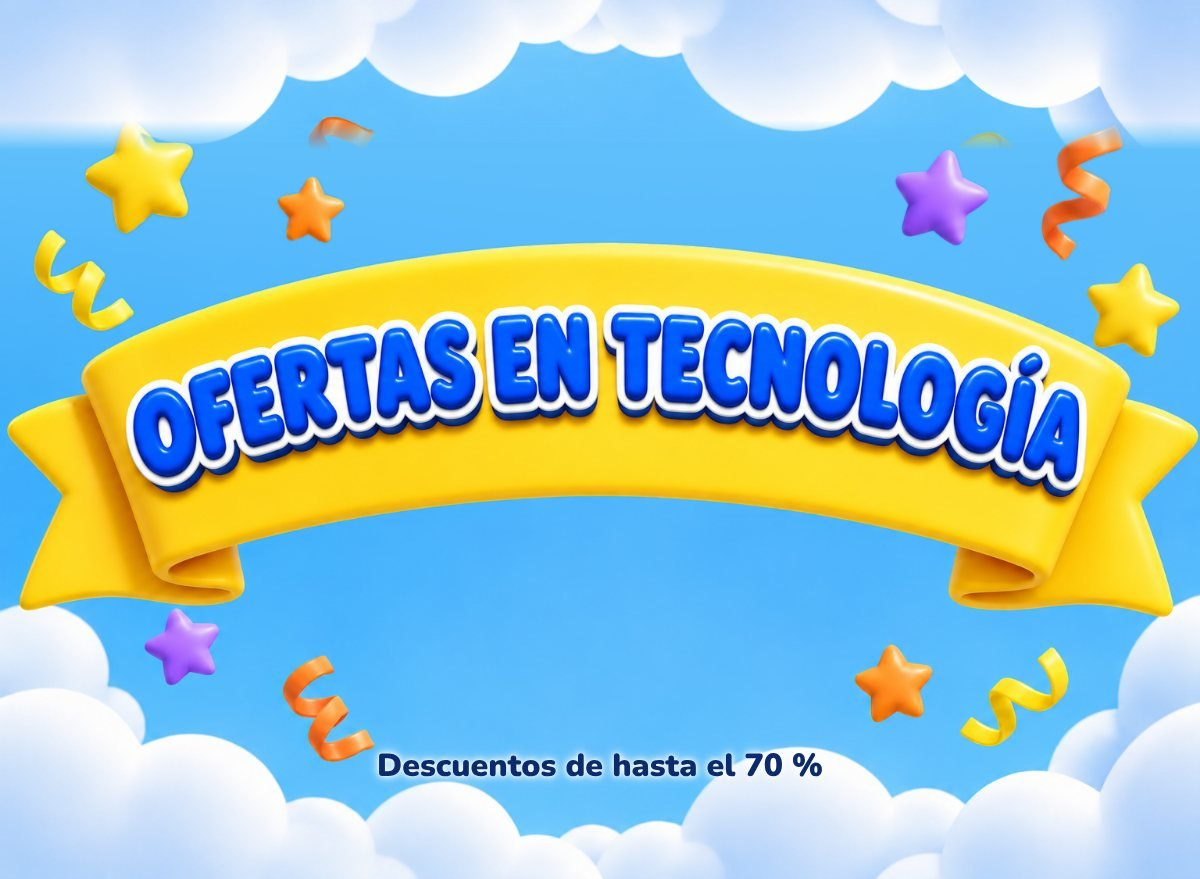
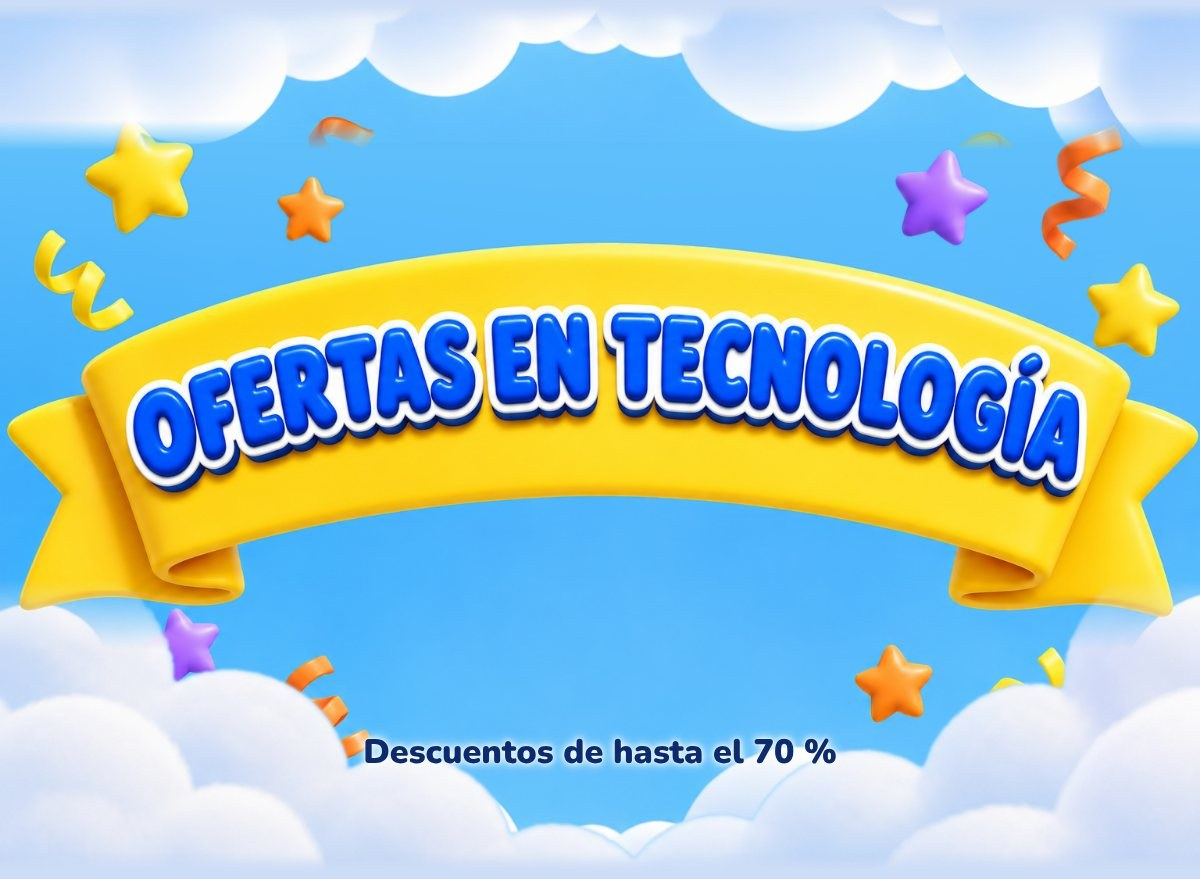
Nubes unificadas con sprites limpios, pastillas de promos y bloque Envío gratis
Claude-Session: https://claude.ai/code/session_014n8fruw4BUtYLKWozkJouR

diff --git a/index.html b/index.html
@@ -19,52 +19,53 @@ body{margin:0;padding:0;background:#EEF3F9}
 <tr><td align="center" style="padding:10px 16px;font-family:Arial, Helvetica, sans-serif;font-size:12px;line-height:18px;color:#4A5878;background:#EEF3F9">
 <strong style="color:#0B2A6F">Publicidad</strong> · Ejercicio académico. Mercaviva es una marca ficticia; no es una comunicación oficial de Carrefour.<br>
 ¿No ves bien este email? <a href="{$url}" target="_blank" style="color:#0057B8;text-decoration:underline">Ábrelo en el navegador</a></td></tr>
-<tr><td style="padding:0"><a href="https://www.carrefour.es/lavadora-lg-f2x50s9tlb-9-kg-carga-frontal-1200-rpm-wifi-clase-a-blanco/VC4A-32514266/p?utm_source=newsletter&utm_medium=email&utm_campaign=black_friday_2026&utm_content=lavadora_lg" target="_blank"><img src="https://caarlosfdz.github.io/newsletter-mercaviva/bf-cover.jpg?v=10190903" width="600" alt="Mercaviva. Black Friday del 20 de octubre al 27 de noviembre: 50 % y 70 % de descuento en tecnología, electrodomésticos y alimentación" class="fluid" style="display:block;width:100%;max-width:600px;height:auto;border:0"></a></td></tr>
-<tr><td style="padding:0"><a href="https://www.carrefour.es/lavadora-lg-f2x50s9tlb-9-kg-carga-frontal-1200-rpm-wifi-clase-a-blanco/VC4A-32514266/p?utm_source=newsletter&utm_medium=email&utm_campaign=black_friday_2026&utm_content=lavadora_lg" target="_blank"><img src="https://caarlosfdz.github.io/newsletter-mercaviva/bf-p1.jpg?v=10190903" width="600" alt="Lavadora LG 9 kg: 164,70 €, antes 549 €, 70 % de descuento" class="fluid" style="display:block;width:100%;max-width:600px;height:auto;border:0"></a></td></tr>
-<tr><td style="padding:0"><img src="https://caarlosfdz.github.io/newsletter-mercaviva/bf-tit-tecnologia.jpg?v=10190903" width="600" alt="Ofertas en tecnología: descuentos de hasta el 70 %" class="fluid" style="display:block;width:100%;max-width:600px;height:auto;border:0"></td></tr>
-<tr><td style="padding:0"><img src="https://caarlosfdz.github.io/newsletter-mercaviva/bf-nubes-arriba.jpg?v=10190903" width="600" alt="" class="fluid" style="display:block;width:100%;max-width:600px;height:auto;border:0"></td></tr>
+<tr><td style="padding:0"><a href="https://www.carrefour.es/lavadora-lg-f2x50s9tlb-9-kg-carga-frontal-1200-rpm-wifi-clase-a-blanco/VC4A-32514266/p?utm_source=newsletter&utm_medium=email&utm_campaign=black_friday_2026&utm_content=lavadora_lg" target="_blank"><img src="https://caarlosfdz.github.io/newsletter-mercaviva/bf-cover.jpg?v=10190907" width="600" alt="Mercaviva. Black Friday del 20 de octubre al 27 de noviembre: 50 % y 70 % de descuento en tecnología, electrodomésticos y alimentación" class="fluid" style="display:block;width:100%;max-width:600px;height:auto;border:0"></a></td></tr>
+<tr><td style="padding:0"><a href="https://www.carrefour.es/lavadora-lg-f2x50s9tlb-9-kg-carga-frontal-1200-rpm-wifi-clase-a-blanco/VC4A-32514266/p?utm_source=newsletter&utm_medium=email&utm_campaign=black_friday_2026&utm_content=lavadora_lg" target="_blank"><img src="https://caarlosfdz.github.io/newsletter-mercaviva/bf-p1.jpg?v=10190907" width="600" alt="Lavadora LG 9 kg: 164,70 €, antes 549 €, 70 % de descuento" class="fluid" style="display:block;width:100%;max-width:600px;height:auto;border:0"></a></td></tr>
+<tr><td style="padding:0"><img src="https://caarlosfdz.github.io/newsletter-mercaviva/bf-tit-tecnologia.jpg?v=10190907" width="600" alt="Ofertas en tecnología: descuentos de hasta el 70 %" class="fluid" style="display:block;width:100%;max-width:600px;height:auto;border:0"></td></tr>
+<tr><td style="padding:0"><img src="https://caarlosfdz.github.io/newsletter-mercaviva/bf-nubes-arriba.jpg?v=10190907" width="600" alt="" class="fluid" style="display:block;width:100%;max-width:600px;height:auto;border:0"></td></tr>
 <tr><td bgcolor="#5CC4FC" style="padding:0;background:#5CC4FC"><table role="presentation" cellpadding="0" cellspacing="0" border="0" width="100%"><tr>
-<td class="col" width="300" valign="top" style="width:300px;vertical-align:top"><a href="https://www.carrefour.es/proyector-yaber-pro-u9-proyector-1080p-nativo-con-wifi-5g-y-bluetooth-15000lm-brillo-ultra-alto-460-ansi-corrector-keystone-4p-4d/0602561264473/p?utm_source=newsletter&utm_medium=email&utm_campaign=black_friday_2026&utm_content=proyector_yaber" target="_blank"><img src="https://caarlosfdz.github.io/newsletter-mercaviva/bf-p6.png?v=10190903" width="300" alt="Proyector Yaber Pro U9: 95,22 €, antes 218,99 €, −56,5 % y envío gratis" class="fluid" style="display:block;width:100%;max-width:300px;height:auto;border:0"></a>
+<td class="col" width="300" valign="top" style="width:300px;vertical-align:top"><a href="https://www.carrefour.es/proyector-yaber-pro-u9-proyector-1080p-nativo-con-wifi-5g-y-bluetooth-15000lm-brillo-ultra-alto-460-ansi-corrector-keystone-4p-4d/0602561264473/p?utm_source=newsletter&utm_medium=email&utm_campaign=black_friday_2026&utm_content=proyector_yaber" target="_blank"><img src="https://caarlosfdz.github.io/newsletter-mercaviva/bf-p6.png?v=10190907" width="300" alt="Proyector Yaber Pro U9: 95,22 €, antes 218,99 €, −56,5 % y envío gratis" class="fluid" style="display:block;width:100%;max-width:300px;height:auto;border:0"></a>
 <div style="padding:4px 14px 26px"><table role="presentation" cellpadding="0" cellspacing="0" border="0" width="100%"><tr><td align="center" bgcolor="#5CC4FC" style="background:#5CC4FC">
-<a href="https://www.carrefour.es/proyector-yaber-pro-u9-proyector-1080p-nativo-con-wifi-5g-y-bluetooth-15000lm-brillo-ultra-alto-460-ansi-corrector-keystone-4p-4d/0602561264473/p?utm_source=newsletter&utm_medium=email&utm_campaign=black_friday_2026&utm_content=proyector_yaber" target="_blank" style="display:block;text-decoration:none"><img src="https://caarlosfdz.github.io/newsletter-mercaviva/bf-btn-p6.png?v=10190903" width="270" alt="Llévatelo ya" class="fluid" style="display:block;width:100%;max-width:270px;height:auto;border:0;font-family:Arial, Helvetica, sans-serif;font-size:16px;font-weight:bold;line-height:52px;color:#0B2A6F;text-align:center"></a></td></tr></table></div></td>
-<td class="col" width="300" valign="top" style="width:300px;vertical-align:top"><a href="https://www.carrefour.es/lavavajillas-60-cm-candy-cf3e7e0w-5-programas-13-cubiertos-clase-e-blanco/VC4A-33175690/p?utm_source=newsletter&utm_medium=email&utm_campaign=black_friday_2026&utm_content=lavavajillas_candy" target="_blank"><img src="https://caarlosfdz.github.io/newsletter-mercaviva/bf-p2.png?v=10190903" width="300" alt="Lavavajillas Candy CF3E7E0W: 154,50 €, antes 309 €, −50 %" class="fluid" style="display:block;width:100%;max-width:300px;height:auto;border:0"></a>
+<a href="https://www.carrefour.es/proyector-yaber-pro-u9-proyector-1080p-nativo-con-wifi-5g-y-bluetooth-15000lm-brillo-ultra-alto-460-ansi-corrector-keystone-4p-4d/0602561264473/p?utm_source=newsletter&utm_medium=email&utm_campaign=black_friday_2026&utm_content=proyector_yaber" target="_blank" style="display:block;text-decoration:none"><img src="https://caarlosfdz.github.io/newsletter-mercaviva/bf-btn-p6.png?v=10190907" width="270" alt="Llévatelo ya" class="fluid" style="display:block;width:100%;max-width:270px;height:auto;border:0;font-family:Arial, Helvetica, sans-serif;font-size:16px;font-weight:bold;line-height:52px;color:#0B2A6F;text-align:center"></a></td></tr></table></div></td>
+<td class="col" width="300" valign="top" style="width:300px;vertical-align:top"><a href="https://www.carrefour.es/lavavajillas-60-cm-candy-cf3e7e0w-5-programas-13-cubiertos-clase-e-blanco/VC4A-33175690/p?utm_source=newsletter&utm_medium=email&utm_campaign=black_friday_2026&utm_content=lavavajillas_candy" target="_blank"><img src="https://caarlosfdz.github.io/newsletter-mercaviva/bf-p2.png?v=10190907" width="300" alt="Lavavajillas Candy CF3E7E0W: 154,50 €, antes 309 €, −50 %" class="fluid" style="display:block;width:100%;max-width:300px;height:auto;border:0"></a>
 <div style="padding:4px 14px 26px"><table role="presentation" cellpadding="0" cellspacing="0" border="0" width="100%"><tr><td align="center" bgcolor="#5CC4FC" style="background:#5CC4FC">
-<a href="https://www.carrefour.es/lavavajillas-60-cm-candy-cf3e7e0w-5-programas-13-cubiertos-clase-e-blanco/VC4A-33175690/p?utm_source=newsletter&utm_medium=email&utm_campaign=black_friday_2026&utm_content=lavavajillas_candy" target="_blank" style="display:block;text-decoration:none"><img src="https://caarlosfdz.github.io/newsletter-mercaviva/bf-btn-p2.png?v=10190903" width="270" alt="Aprovecha el −50 %" class="fluid" style="display:block;width:100%;max-width:270px;height:auto;border:0;font-family:Arial, Helvetica, sans-serif;font-size:16px;font-weight:bold;line-height:52px;color:#0B2A6F;text-align:center"></a></td></tr></table></div></td></tr></table></td></tr>
+<a href="https://www.carrefour.es/lavavajillas-60-cm-candy-cf3e7e0w-5-programas-13-cubiertos-clase-e-blanco/VC4A-33175690/p?utm_source=newsletter&utm_medium=email&utm_campaign=black_friday_2026&utm_content=lavavajillas_candy" target="_blank" style="display:block;text-decoration:none"><img src="https://caarlosfdz.github.io/newsletter-mercaviva/bf-btn-p2.png?v=10190907" width="270" alt="Aprovecha el −50 %" class="fluid" style="display:block;width:100%;max-width:270px;height:auto;border:0;font-family:Arial, Helvetica, sans-serif;font-size:16px;font-weight:bold;line-height:52px;color:#0B2A6F;text-align:center"></a></td></tr></table></div></td></tr></table></td></tr>
 <tr><td bgcolor="#5CC4FC" style="padding:0;background:#5CC4FC"><table role="presentation" cellpadding="0" cellspacing="0" border="0" width="100%"><tr>
-<td class="col" width="300" valign="top" style="width:300px;vertical-align:top"><a href="https://www.carrefour.es/tv-lg-oled-evo-c5-2025-83-uhd-4k-oled83c5ela/8806096419687/p?utm_source=newsletter&utm_medium=email&utm_campaign=black_friday_2026&utm_content=tv_lg_oled" target="_blank"><img src="https://caarlosfdz.github.io/newsletter-mercaviva/bf-p5.png?v=10190903" width="300" alt="TV LG OLED evo C5 83 pulgadas: 4.877,62 €, antes 6.150,99 €, −20,7 %" class="fluid" style="display:block;width:100%;max-width:300px;height:auto;border:0"></a>
+<td class="col" width="300" valign="top" style="width:300px;vertical-align:top"><a href="https://www.carrefour.es/tv-lg-oled-evo-c5-2025-83-uhd-4k-oled83c5ela/8806096419687/p?utm_source=newsletter&utm_medium=email&utm_campaign=black_friday_2026&utm_content=tv_lg_oled" target="_blank"><img src="https://caarlosfdz.github.io/newsletter-mercaviva/bf-p5.png?v=10190907" width="300" alt="TV LG OLED evo C5 83 pulgadas: 4.877,62 €, antes 6.150,99 €, −20,7 %" class="fluid" style="display:block;width:100%;max-width:300px;height:auto;border:0"></a>
 <div style="padding:4px 14px 26px"><table role="presentation" cellpadding="0" cellspacing="0" border="0" width="100%"><tr><td align="center" bgcolor="#5CC4FC" style="background:#5CC4FC">
-<a href="https://www.carrefour.es/tv-lg-oled-evo-c5-2025-83-uhd-4k-oled83c5ela/8806096419687/p?utm_source=newsletter&utm_medium=email&utm_campaign=black_friday_2026&utm_content=tv_lg_oled" target="_blank" style="display:block;text-decoration:none"><img src="https://caarlosfdz.github.io/newsletter-mercaviva/bf-btn-p5.png?v=10190903" width="270" alt="Ahorra 1.273 €" class="fluid" style="display:block;width:100%;max-width:270px;height:auto;border:0;font-family:Arial, Helvetica, sans-serif;font-size:16px;font-weight:bold;line-height:52px;color:#0B2A6F;text-align:center"></a></td></tr></table></div></td>
-<td class="col" width="300" valign="top" style="width:300px;vertical-align:top"><a href="https://www.carrefour.es/consola-nintendo-switch-2-256-gb-star-fox/VLOT-34789303/p?utm_source=newsletter&utm_medium=email&utm_campaign=black_friday_2026&utm_content=switch2_starfox" target="_blank"><img src="https://caarlosfdz.github.io/newsletter-mercaviva/bf-p3.png?v=10190903" width="300" alt="Nintendo Switch 2 + Star Fox: súperchollo a 519 €" class="fluid" style="display:block;width:100%;max-width:300px;height:auto;border:0"></a>
+<a href="https://www.carrefour.es/tv-lg-oled-evo-c5-2025-83-uhd-4k-oled83c5ela/8806096419687/p?utm_source=newsletter&utm_medium=email&utm_campaign=black_friday_2026&utm_content=tv_lg_oled" target="_blank" style="display:block;text-decoration:none"><img src="https://caarlosfdz.github.io/newsletter-mercaviva/bf-btn-p5.png?v=10190907" width="270" alt="Ahorra 1.273 €" class="fluid" style="display:block;width:100%;max-width:270px;height:auto;border:0;font-family:Arial, Helvetica, sans-serif;font-size:16px;font-weight:bold;line-height:52px;color:#0B2A6F;text-align:center"></a></td></tr></table></div></td>
+<td class="col" width="300" valign="top" style="width:300px;vertical-align:top"><a href="https://www.carrefour.es/consola-nintendo-switch-2-256-gb-star-fox/VLOT-34789303/p?utm_source=newsletter&utm_medium=email&utm_campaign=black_friday_2026&utm_content=switch2_starfox" target="_blank"><img src="https://caarlosfdz.github.io/newsletter-mercaviva/bf-p3.png?v=10190907" width="300" alt="Nintendo Switch 2 + Star Fox: súperchollo a 519 €" class="fluid" style="display:block;width:100%;max-width:300px;height:auto;border:0"></a>
 <div style="padding:4px 14px 26px"><table role="presentation" cellpadding="0" cellspacing="0" border="0" width="100%"><tr><td align="center" bgcolor="#5CC4FC" style="background:#5CC4FC">
-<a href="https://www.carrefour.es/consola-nintendo-switch-2-256-gb-star-fox/VLOT-34789303/p?utm_source=newsletter&utm_medium=email&utm_campaign=black_friday_2026&utm_content=switch2_starfox" target="_blank" style="display:block;text-decoration:none"><img src="https://caarlosfdz.github.io/newsletter-mercaviva/bf-btn-p3.png?v=10190903" width="270" alt="Ver el súperchollo" class="fluid" style="display:block;width:100%;max-width:270px;height:auto;border:0;font-family:Arial, Helvetica, sans-serif;font-size:16px;font-weight:bold;line-height:52px;color:#0B2A6F;text-align:center"></a></td></tr></table></div></td></tr></table></td></tr>
+<a href="https://www.carrefour.es/consola-nintendo-switch-2-256-gb-star-fox/VLOT-34789303/p?utm_source=newsletter&utm_medium=email&utm_campaign=black_friday_2026&utm_content=switch2_starfox" target="_blank" style="display:block;text-decoration:none"><img src="https://caarlosfdz.github.io/newsletter-mercaviva/bf-btn-p3.png?v=10190907" width="270" alt="Ver el súperchollo" class="fluid" style="display:block;width:100%;max-width:270px;height:auto;border:0;font-family:Arial, Helvetica, sans-serif;font-size:16px;font-weight:bold;line-height:52px;color:#0B2A6F;text-align:center"></a></td></tr></table></div></td></tr></table></td></tr>
 
 <tr><td bgcolor="#5CC4FC" style="padding:0;background:#5CC4FC"><table role="presentation" cellpadding="0" cellspacing="0" border="0" width="100%"><tr>
-<td class="col" width="300" valign="top" style="width:300px;vertical-align:top"><a href="https://www.carrefour.es/pikmin-4-academia-dandori-para-switch-2/VC4A-34697905/p?utm_source=newsletter&utm_medium=email&utm_campaign=black_friday_2026&utm_content=pikmin4" target="_blank"><img src="https://caarlosfdz.github.io/newsletter-mercaviva/bf-p4.png?v=10190903" width="300" alt="Pikmin 4 + Academia Dandori en precompra: 59,90 €, antes 69,99 €, envío gratis" class="fluid" style="display:block;width:100%;max-width:300px;height:auto;border:0"></a>
+<td class="col" width="300" valign="top" style="width:300px;vertical-align:top"><a href="https://www.carrefour.es/pikmin-4-academia-dandori-para-switch-2/VC4A-34697905/p?utm_source=newsletter&utm_medium=email&utm_campaign=black_friday_2026&utm_content=pikmin4" target="_blank"><img src="https://caarlosfdz.github.io/newsletter-mercaviva/bf-p4.png?v=10190907" width="300" alt="Pikmin 4 + Academia Dandori en precompra: 59,90 €, antes 69,99 €, envío gratis" class="fluid" style="display:block;width:100%;max-width:300px;height:auto;border:0"></a>
 <div style="padding:4px 14px 26px"><table role="presentation" cellpadding="0" cellspacing="0" border="0" width="100%"><tr><td align="center" bgcolor="#5CC4FC" style="background:#5CC4FC">
-<a href="https://www.carrefour.es/pikmin-4-academia-dandori-para-switch-2/VC4A-34697905/p?utm_source=newsletter&utm_medium=email&utm_campaign=black_friday_2026&utm_content=pikmin4" target="_blank" style="display:block;text-decoration:none"><img src="https://caarlosfdz.github.io/newsletter-mercaviva/bf-btn-p4.png?v=10190903" width="270" alt="Resérvalo ya" class="fluid" style="display:block;width:100%;max-width:270px;height:auto;border:0;font-family:Arial, Helvetica, sans-serif;font-size:16px;font-weight:bold;line-height:52px;color:#0B2A6F;text-align:center"></a></td></tr></table></div></td>
-<td class="col" width="300" valign="middle" style="width:300px;vertical-align:middle;padding:20px;font-family:Arial, Helvetica, sans-serif;color:#0B2A6F">
-<p style="margin:0 0 8px;font-size:20px;line-height:24px;font-weight:bold">Envío gratis</p>
-<p style="margin:0;font-size:15px;line-height:21px">En los productos marcados. Ofertas válidas del 20 de octubre al 27 de noviembre o hasta fin de existencias.</p></td></tr></table></td></tr>
-<tr><td style="padding:0"><img src="https://caarlosfdz.github.io/newsletter-mercaviva/bf-nubes-abajo.jpg?v=10190903" width="600" alt="" class="fluid" style="display:block;width:100%;max-width:600px;height:auto;border:0"></td></tr>
-<tr><td style="padding:0"><img src="https://caarlosfdz.github.io/newsletter-mercaviva/bf-tit-compra.jpg?v=10190903" width="600" alt="Ofertas en tu compra: 3x2, 2.ª unidad al 50 % y precios imbatibles" class="fluid" style="display:block;width:100%;max-width:600px;height:auto;border:0"></td></tr>
-<tr><td style="padding:0"><img src="https://caarlosfdz.github.io/newsletter-mercaviva/bf-nubes-arriba-2.jpg?v=10190903" width="600" alt="" class="fluid" style="display:block;width:100%;max-width:600px;height:auto;border:0"></td></tr>
+<a href="https://www.carrefour.es/pikmin-4-academia-dandori-para-switch-2/VC4A-34697905/p?utm_source=newsletter&utm_medium=email&utm_campaign=black_friday_2026&utm_content=pikmin4" target="_blank" style="display:block;text-decoration:none"><img src="https://caarlosfdz.github.io/newsletter-mercaviva/bf-btn-p4.png?v=10190907" width="270" alt="Resérvalo ya" class="fluid" style="display:block;width:100%;max-width:270px;height:auto;border:0;font-family:Arial, Helvetica, sans-serif;font-size:16px;font-weight:bold;line-height:52px;color:#0B2A6F;text-align:center"></a></td></tr></table></div></td>
+<td class="col" width="300" valign="middle" style="width:300px;vertical-align:middle;padding:10px 20px 26px;font-family:Arial, Helvetica, sans-serif;color:#0B2A6F;text-align:center">
+<img src="https://caarlosfdz.github.io/newsletter-mercaviva/bf-envio.png?v=10190907" width="260" alt="Envío gratis" class="fluid" style="display:block;width:100%;max-width:260px;height:auto;border:0;margin:0 auto 12px">
+<p style="margin:0;font-size:15px;line-height:21px;font-weight:bold">En los productos marcados.</p>
+<p style="margin:4px 0 0;font-size:14px;line-height:20px">Ofertas válidas del 20 de octubre al 27 de noviembre o hasta fin de existencias.</p></td></tr></table></td></tr>
+<tr><td style="padding:0"><img src="https://caarlosfdz.github.io/newsletter-mercaviva/bf-nubes-abajo.jpg?v=10190907" width="600" alt="" class="fluid" style="display:block;width:100%;max-width:600px;height:auto;border:0"></td></tr>
+<tr><td style="padding:0"><img src="https://caarlosfdz.github.io/newsletter-mercaviva/bf-tit-compra.jpg?v=10190907" width="600" alt="Ofertas en tu compra: 3x2, 2.ª unidad al 50 % y precios imbatibles" class="fluid" style="display:block;width:100%;max-width:600px;height:auto;border:0"></td></tr>
+<tr><td style="padding:0"><img src="https://caarlosfdz.github.io/newsletter-mercaviva/bf-nubes-arriba-2.jpg?v=10190907" width="600" alt="" class="fluid" style="display:block;width:100%;max-width:600px;height:auto;border:0"></td></tr>
 <tr><td bgcolor="#5CC4FC" style="padding:0;background:#5CC4FC"><table role="presentation" cellpadding="0" cellspacing="0" border="0" width="100%"><tr>
-<td class="col" width="300" valign="top" style="width:300px;vertical-align:top"><a href="https://www.carrefour.es/supermercado/aceite-de-oliva-virgen-serie-oro-coosur-1-l/R-VC4AECOMM-484256/p?utm_source=newsletter&utm_medium=email&utm_campaign=black_friday_2026&utm_content=aceite_coosur" target="_blank"><img src="https://caarlosfdz.github.io/newsletter-mercaviva/bf-p9.png?v=10190903" width="300" alt="Aceite Coosur Serie Oro 1 l: 3x2, el litro sale a 4,13 €" class="fluid" style="display:block;width:100%;max-width:300px;height:auto;border:0"></a>
+<td class="col" width="300" valign="top" style="width:300px;vertical-align:top"><a href="https://www.carrefour.es/supermercado/aceite-de-oliva-virgen-serie-oro-coosur-1-l/R-VC4AECOMM-484256/p?utm_source=newsletter&utm_medium=email&utm_campaign=black_friday_2026&utm_content=aceite_coosur" target="_blank"><img src="https://caarlosfdz.github.io/newsletter-mercaviva/bf-p9.png?v=10190907" width="300" alt="Aceite Coosur Serie Oro 1 l: 3x2, el litro sale a 4,13 €" class="fluid" style="display:block;width:100%;max-width:300px;height:auto;border:0"></a>
 <div style="padding:4px 14px 26px"><table role="presentation" cellpadding="0" cellspacing="0" border="0" width="100%"><tr><td align="center" bgcolor="#5CC4FC" style="background:#5CC4FC">
-<a href="https://www.carrefour.es/supermercado/aceite-de-oliva-virgen-serie-oro-coosur-1-l/R-VC4AECOMM-484256/p?utm_source=newsletter&utm_medium=email&utm_campaign=black_friday_2026&utm_content=aceite_coosur" target="_blank" style="display:block;text-decoration:none"><img src="https://caarlosfdz.github.io/newsletter-mercaviva/bf-btn-p9.png?v=10190903" width="270" alt="Llévate 3, paga 2" class="fluid" style="display:block;width:100%;max-width:270px;height:auto;border:0;font-family:Arial, Helvetica, sans-serif;font-size:16px;font-weight:bold;line-height:52px;color:#0B2A6F;text-align:center"></a></td></tr></table></div></td>
-<td class="col" width="300" valign="top" style="width:300px;vertical-align:top"><a href="https://www.carrefour.es/supermercado/aceite-de-oliva-suave-04-la-espanola-1-l/R-520660257/p?utm_source=newsletter&utm_medium=email&utm_campaign=black_friday_2026&utm_content=aceite_la_espanola" target="_blank"><img src="https://caarlosfdz.github.io/newsletter-mercaviva/bf-p10.png?v=10190903" width="300" alt="Aceite La Española suave 1 l: 3x2, el litro sale a 3,66 €" class="fluid" style="display:block;width:100%;max-width:300px;height:auto;border:0"></a>
+<a href="https://www.carrefour.es/supermercado/aceite-de-oliva-virgen-serie-oro-coosur-1-l/R-VC4AECOMM-484256/p?utm_source=newsletter&utm_medium=email&utm_campaign=black_friday_2026&utm_content=aceite_coosur" target="_blank" style="display:block;text-decoration:none"><img src="https://caarlosfdz.github.io/newsletter-mercaviva/bf-btn-p9.png?v=10190907" width="270" alt="Llévate 3, paga 2" class="fluid" style="display:block;width:100%;max-width:270px;height:auto;border:0;font-family:Arial, Helvetica, sans-serif;font-size:16px;font-weight:bold;line-height:52px;color:#0B2A6F;text-align:center"></a></td></tr></table></div></td>
+<td class="col" width="300" valign="top" style="width:300px;vertical-align:top"><a href="https://www.carrefour.es/supermercado/aceite-de-oliva-suave-04-la-espanola-1-l/R-520660257/p?utm_source=newsletter&utm_medium=email&utm_campaign=black_friday_2026&utm_content=aceite_la_espanola" target="_blank"><img src="https://caarlosfdz.github.io/newsletter-mercaviva/bf-p10.png?v=10190907" width="300" alt="Aceite La Española suave 1 l: 3x2, el litro sale a 3,66 €" class="fluid" style="display:block;width:100%;max-width:300px;height:auto;border:0"></a>
 <div style="padding:4px 14px 26px"><table role="presentation" cellpadding="0" cellspacing="0" border="0" width="100%"><tr><td align="center" bgcolor="#5CC4FC" style="background:#5CC4FC">
-<a href="https://www.carrefour.es/supermercado/aceite-de-oliva-suave-04-la-espanola-1-l/R-520660257/p?utm_source=newsletter&utm_medium=email&utm_campaign=black_friday_2026&utm_content=aceite_la_espanola" target="_blank" style="display:block;text-decoration:none"><img src="https://caarlosfdz.github.io/newsletter-mercaviva/bf-btn-p10.png?v=10190903" width="270" alt="Aprovecha el 3x2" class="fluid" style="display:block;width:100%;max-width:270px;height:auto;border:0;font-family:Arial, Helvetica, sans-serif;font-size:16px;font-weight:bold;line-height:52px;color:#0B2A6F;text-align:center"></a></td></tr></table></div></td></tr></table></td></tr>
+<a href="https://www.carrefour.es/supermercado/aceite-de-oliva-suave-04-la-espanola-1-l/R-520660257/p?utm_source=newsletter&utm_medium=email&utm_campaign=black_friday_2026&utm_content=aceite_la_espanola" target="_blank" style="display:block;text-decoration:none"><img src="https://caarlosfdz.github.io/newsletter-mercaviva/bf-btn-p10.png?v=10190907" width="270" alt="Aprovecha el 3x2" class="fluid" style="display:block;width:100%;max-width:270px;height:auto;border:0;font-family:Arial, Helvetica, sans-serif;font-size:16px;font-weight:bold;line-height:52px;color:#0B2A6F;text-align:center"></a></td></tr></table></div></td></tr></table></td></tr>
 <tr><td bgcolor="#5CC4FC" style="padding:0;background:#5CC4FC"><table role="presentation" cellpadding="0" cellspacing="0" border="0" width="100%"><tr>
-<td class="col" width="300" valign="top" style="width:300px;vertical-align:top"><a href="https://www.carrefour.es/supermercado/salmon-ahumado-noruego-carrefour-extra-100-g/R-682701980/p?utm_source=newsletter&utm_medium=email&utm_campaign=black_friday_2026&utm_content=salmon_ahumado" target="_blank"><img src="https://caarlosfdz.github.io/newsletter-mercaviva/bf-p7.png?v=10190903" width="300" alt="Salmón ahumado noruego Extra 100 g: 2.ª unidad al 50 %, cada una a 2,77 €" class="fluid" style="display:block;width:100%;max-width:300px;height:auto;border:0"></a>
+<td class="col" width="300" valign="top" style="width:300px;vertical-align:top"><a href="https://www.carrefour.es/supermercado/salmon-ahumado-noruego-carrefour-extra-100-g/R-682701980/p?utm_source=newsletter&utm_medium=email&utm_campaign=black_friday_2026&utm_content=salmon_ahumado" target="_blank"><img src="https://caarlosfdz.github.io/newsletter-mercaviva/bf-p7.png?v=10190907" width="300" alt="Salmón ahumado noruego Extra 100 g: 2.ª unidad al 50 %, cada una a 2,77 €" class="fluid" style="display:block;width:100%;max-width:300px;height:auto;border:0"></a>
 <div style="padding:4px 14px 26px"><table role="presentation" cellpadding="0" cellspacing="0" border="0" width="100%"><tr><td align="center" bgcolor="#5CC4FC" style="background:#5CC4FC">
-<a href="https://www.carrefour.es/supermercado/salmon-ahumado-noruego-carrefour-extra-100-g/R-682701980/p?utm_source=newsletter&utm_medium=email&utm_campaign=black_friday_2026&utm_content=salmon_ahumado" target="_blank" style="display:block;text-decoration:none"><img src="https://caarlosfdz.github.io/newsletter-mercaviva/bf-btn-p7.png?v=10190903" width="270" alt="Añadir a la cesta" class="fluid" style="display:block;width:100%;max-width:270px;height:auto;border:0;font-family:Arial, Helvetica, sans-serif;font-size:16px;font-weight:bold;line-height:52px;color:#0B2A6F;text-align:center"></a></td></tr></table></div></td>
-<td class="col" width="300" valign="top" style="width:300px;vertical-align:top"><a href="https://www.carrefour.es/supermercado/lubina-600-g-aprox/R-790212148/p?utm_source=newsletter&utm_medium=email&utm_campaign=black_friday_2026&utm_content=lubina" target="_blank"><img src="https://caarlosfdz.github.io/newsletter-mercaviva/bf-p8.png?v=10190903" width="300" alt="Lubina 600 g aprox.: 5,39 €, antes 5,97 €" class="fluid" style="display:block;width:100%;max-width:300px;height:auto;border:0"></a>
+<a href="https://www.carrefour.es/supermercado/salmon-ahumado-noruego-carrefour-extra-100-g/R-682701980/p?utm_source=newsletter&utm_medium=email&utm_campaign=black_friday_2026&utm_content=salmon_ahumado" target="_blank" style="display:block;text-decoration:none"><img src="https://caarlosfdz.github.io/newsletter-mercaviva/bf-btn-p7.png?v=10190907" width="270" alt="Añadir a la cesta" class="fluid" style="display:block;width:100%;max-width:270px;height:auto;border:0;font-family:Arial, Helvetica, sans-serif;font-size:16px;font-weight:bold;line-height:52px;color:#0B2A6F;text-align:center"></a></td></tr></table></div></td>
+<td class="col" width="300" valign="top" style="width:300px;vertical-align:top"><a href="https://www.carrefour.es/supermercado/lubina-600-g-aprox/R-790212148/p?utm_source=newsletter&utm_medium=email&utm_campaign=black_friday_2026&utm_content=lubina" target="_blank"><img src="https://caarlosfdz.github.io/newsletter-mercaviva/bf-p8.png?v=10190907" width="300" alt="Lubina 600 g aprox.: 5,39 €, antes 5,97 €" class="fluid" style="display:block;width:100%;max-width:300px;height:auto;border:0"></a>
 <div style="padding:4px 14px 26px"><table role="presentation" cellpadding="0" cellspacing="0" border="0" width="100%"><tr><td align="center" bgcolor="#5CC4FC" style="background:#5CC4FC">
-<a href="https://www.carrefour.es/supermercado/lubina-600-g-aprox/R-790212148/p?utm_source=newsletter&utm_medium=email&utm_campaign=black_friday_2026&utm_content=lubina" target="_blank" style="display:block;text-decoration:none"><img src="https://caarlosfdz.github.io/newsletter-mercaviva/bf-btn-p8.png?v=10190903" width="270" alt="Quiero esta lubina" class="fluid" style="display:block;width:100%;max-width:270px;height:auto;border:0;font-family:Arial, Helvetica, sans-serif;font-size:16px;font-weight:bold;line-height:52px;color:#0B2A6F;text-align:center"></a></td></tr></table></div></td></tr></table></td></tr>
-<tr><td style="padding:0"><img src="https://caarlosfdz.github.io/newsletter-mercaviva/bf-nubes-abajo.jpg?v=10190903" width="600" alt="" class="fluid" style="display:block;width:100%;max-width:600px;height:auto;border:0"></td></tr>
+<a href="https://www.carrefour.es/supermercado/lubina-600-g-aprox/R-790212148/p?utm_source=newsletter&utm_medium=email&utm_campaign=black_friday_2026&utm_content=lubina" target="_blank" style="display:block;text-decoration:none"><img src="https://caarlosfdz.github.io/newsletter-mercaviva/bf-btn-p8.png?v=10190907" width="270" alt="Quiero esta lubina" class="fluid" style="display:block;width:100%;max-width:270px;height:auto;border:0;font-family:Arial, Helvetica, sans-serif;font-size:16px;font-weight:bold;line-height:52px;color:#0B2A6F;text-align:center"></a></td></tr></table></div></td></tr></table></td></tr>
+<tr><td style="padding:0"><img src="https://caarlosfdz.github.io/newsletter-mercaviva/bf-nubes-abajo.jpg?v=10190907" width="600" alt="" class="fluid" style="display:block;width:100%;max-width:600px;height:auto;border:0"></td></tr>
 <tr><td align="center" style="padding:10px 20px 6px"><a href="https://www.mercaviva.es/?utm_source=newsletter&utm_medium=email&utm_campaign=black_friday_2026&utm_content=footer" target="_blank" style="font-family:Arial, Helvetica, sans-serif;font-size:16px;font-weight:bold;color:#0057B8;text-decoration:none">www.mercaviva.es</a></td></tr>
-<tr><td align="center" style="padding:8px 20px 18px"><table role="presentation" cellpadding="0" cellspacing="0" border="0"><tr><td style="padding:0 6px"><a href="https://www.mercaviva.es/redes/instagram" target="_blank"><img src="https://caarlosfdz.github.io/newsletter-mercaviva/bf-ico-instagram.png?v=10190903" width="40" height="40" alt="Instagram" style="display:block;border:0;width:40px;height:40px"></a></td><td style="padding:0 6px"><a href="https://www.mercaviva.es/redes/facebook" target="_blank"><img src="https://caarlosfdz.github.io/newsletter-mercaviva/bf-ico-facebook.png?v=10190903" width="40" height="40" alt="Facebook" style="display:block;border:0;width:40px;height:40px"></a></td><td style="padding:0 6px"><a href="https://www.mercaviva.es/redes/tiktok" target="_blank"><img src="https://caarlosfdz.github.io/newsletter-mercaviva/bf-ico-tiktok.png?v=10190903" width="40" height="40" alt="TikTok" style="display:block;border:0;width:40px;height:40px"></a></td><td style="padding:0 6px"><a href="https://www.mercaviva.es/redes/youtube" target="_blank"><img src="https://caarlosfdz.github.io/newsletter-mercaviva/bf-ico-youtube.png?v=10190903" width="40" height="40" alt="YouTube" style="display:block;border:0;width:40px;height:40px"></a></td><td style="padding:0 6px"><a href="https://www.mercaviva.es/redes/x" target="_blank"><img src="https://caarlosfdz.github.io/newsletter-mercaviva/bf-ico-x.png?v=10190903" width="40" height="40" alt="X" style="display:block;border:0;width:40px;height:40px"></a></td></tr></table></td></tr>
+<tr><td align="center" style="padding:8px 20px 18px"><table role="presentation" cellpadding="0" cellspacing="0" border="0"><tr><td style="padding:0 6px"><a href="https://www.mercaviva.es/redes/instagram" target="_blank"><img src="https://caarlosfdz.github.io/newsletter-mercaviva/bf-ico-instagram.png?v=10190907" width="40" height="40" alt="Instagram" style="display:block;border:0;width:40px;height:40px"></a></td><td style="padding:0 6px"><a href="https://www.mercaviva.es/redes/facebook" target="_blank"><img src="https://caarlosfdz.github.io/newsletter-mercaviva/bf-ico-facebook.png?v=10190907" width="40" height="40" alt="Facebook" style="display:block;border:0;width:40px;height:40px"></a></td><td style="padding:0 6px"><a href="https://www.mercaviva.es/redes/tiktok" target="_blank"><img src="https://caarlosfdz.github.io/newsletter-mercaviva/bf-ico-tiktok.png?v=10190907" width="40" height="40" alt="TikTok" style="display:block;border:0;width:40px;height:40px"></a></td><td style="padding:0 6px"><a href="https://www.mercaviva.es/redes/youtube" target="_blank"><img src="https://caarlosfdz.github.io/newsletter-mercaviva/bf-ico-youtube.png?v=10190907" width="40" height="40" alt="YouTube" style="display:block;border:0;width:40px;height:40px"></a></td><td style="padding:0 6px"><a href="https://www.mercaviva.es/redes/x" target="_blank"><img src="https://caarlosfdz.github.io/newsletter-mercaviva/bf-ico-x.png?v=10190907" width="40" height="40" alt="X" style="display:block;border:0;width:40px;height:40px"></a></td></tr></table></td></tr>
 <tr><td style="padding:16px 24px 26px;font-family:Arial, Helvetica, sans-serif;font-size:12px;line-height:18px;color:#4A5878;background:#EEF3F9">
 <p style="margin:0 0 10px"><strong style="color:#0B2A6F">Condiciones de las promociones.</strong> Válidas del 20/10/2026 al 27/11/2026 o hasta fin de existencias. <strong>3x2:</strong> al comprar 3 unidades del mismo producto, la de menor precio sale gratis. <strong>2.ª ud. al 50 %:</strong> descuento del 50 % en la segunda unidad del mismo producto. <strong>Envío gratis:</strong> solo en los productos indicados y en envíos a la península. Precios con IVA incluido. Descuentos calculados sobre el precio anterior indicado.</p>
 <p style="margin:0 0 10px">Recibes este email porque estás suscrito a la newsletter de Mercaviva. Remitente: Mercaviva Supermercados, S.A. (empresa ficticia), C/ Ejemplo, 1, 28000 Madrid. Consulta nuestra <a href="https://www.mercaviva.es/privacidad" target="_blank" style="color:#0057B8;text-decoration:underline">política de privacidad</a> o <a href="{$unsubscribe}" target="_blank" style="color:#0057B8;text-decoration:underline">date de baja</a> cuando quieras.</p>
